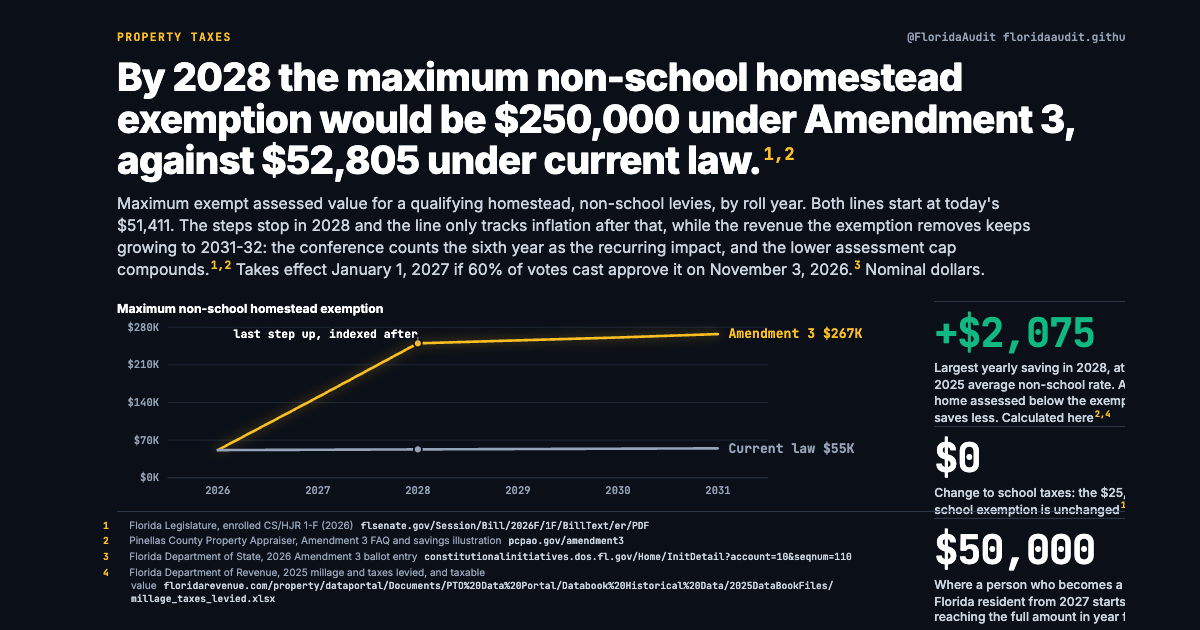
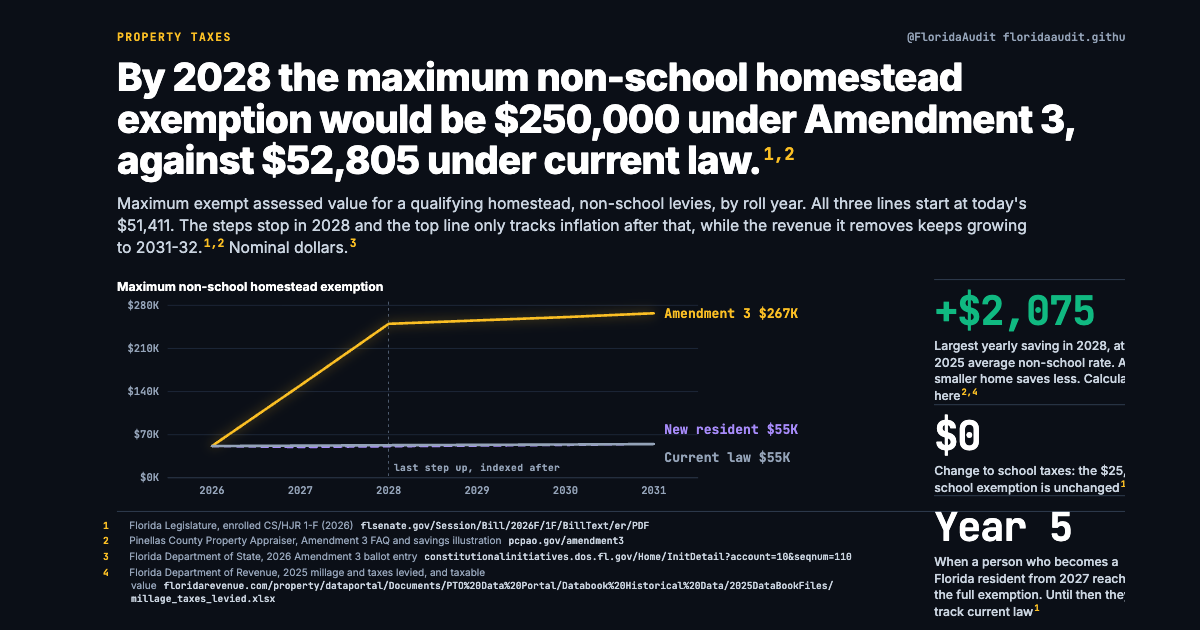
Property Taxes charts rebuilt

diff --git a/c/property-taxes/index.html b/c/property-taxes/index.html
@@ -28,15 +28,15 @@
       <dt>What these charts establish</dt><dd>What the amendment's text does and who it reaches: homesteads, non-homestead property through a lower assessment cap, and renters not at all. It also carries the state Revenue Estimating Conference's estimate of lost local revenue, statewide and county by county. It does not show how counties and cities would respond.</dd>
     </dl>
     <ul class="topic-charts">
-      <li><a href="/c/property-taxes/homestead-exemption-amounts.html"><img src="/charts/property-taxes/homestead-exemption-amounts.webp" width="1280" height="720" alt="By 2028 the maximum non-school homestead exemption would be $250,000 under Amendment 3, against $52,805 under current law. Maximum exempt assessed value for a qualifying homestead, non-school levies, by roll year. Both lines start at today's $51,411. The steps stop in 2028 and the line only tracks inflation after that, while the revenue the exemption removes keeps growing to 2031-32: the conference counts the sixth year as the recurring impact, and the lower assessment cap compounds. Takes effect January 1, 2027 if 60% of votes cast approve it on November 3, 2026. Nominal dollars." loading="lazy"><span>By 2028 the maximum non-school homestead exemption would be $250,000 under Amendment 3, against $52,805 under current law.</span></a></li>
-      <li><a href="/c/property-taxes/homeowner-savings.html"><img src="/charts/property-taxes/homeowner-savings.webp" width="1280" height="720" alt="From 2028, the exemption would cut a homestead's non-school property tax by at most $2,075 a year. Yearly saving for one qualifying homestead, not for a household: the exempt value added over the 2026 maximum ($98,589 in 2027, $198,589 in 2028), taxed at an average non-school rate, with no rate or inflation changes. $2,075 is the ceiling, reached only by a home with enough assessed value to use the whole exemption; below that a home saves in proportion to its assessed value, and a renter saves nothing. The statewide figure is calculated here from Department of Revenue millage. Pinellas County publishes its own illustration, at 12.2011 mills against the state's 10.449." loading="lazy"><span>From 2028, the exemption would cut a homestead's non-school property tax by at most $2,075 a year.</span></a></li>
+      <li><a href="/c/property-taxes/homestead-exemption-amounts.html"><img src="/charts/property-taxes/homestead-exemption-amounts.webp" width="1280" height="720" alt="By 2028 the maximum non-school homestead exemption would be $250,000 under Amendment 3, against $52,805 under current law. Maximum exempt assessed value for a qualifying homestead, non-school levies, by roll year. All three lines start at today's $51,411. The steps stop in 2028 and the top line only tracks inflation after that, while the revenue it removes keeps growing to 2031-32. Nominal dollars." loading="lazy"><span>By 2028 the maximum non-school homestead exemption would be $250,000 under Amendment 3, against $52,805 under current law.</span></a></li>
+      <li><a href="/c/property-taxes/homeowner-savings.html"><img src="/charts/property-taxes/homeowner-savings.webp" width="1280" height="720" alt="From 2028, the exemption would cut a homestead's non-school property tax by at most $2,075 a year. Yearly saving for one qualifying homestead, not for a household: the exempt value added over the 2026 maximum ($98,589 in 2027, $198,589 in 2028), taxed at an average non-school rate, with no rate or inflation changes. $2,075 is the ceiling, reached only by a home with enough assessed value to use the whole exemption; below that a home saves in proportion to its assessed value, and a renter saves nothing. The statewide figure is calculated here from Department of Revenue millage. Pinellas County is the sole county who published its own illustration, at 12.2011 mills against the state's 10.449." loading="lazy"><span>From 2028, the exemption would cut a homestead's non-school property tax by at most $2,075 a year.</span></a></li>
       <li><a href="/c/property-taxes/renters-and-new-residents.html"><img src="/charts/property-taxes/renters-and-new-residents.webp" width="1280" height="720" alt="Florida's 2.92 million renter households would get no homestead exemption. Occupied housing units by tenure, Florida, 2024. The exemption attaches to an owner's permanent residence, so the owner-occupied share is the pool that can claim one and no part of Amendment 3 reaches a renter directly. The census counts occupancy, not exemptions." loading="lazy"><span>Florida's 2.92 million renter households would get no homestead exemption.</span></a></li>
-      <li><a href="/c/property-taxes/local-revenue-impact.html"><img src="/charts/property-taxes/local-revenue-impact.webp" width="1280" height="720" alt="Amendment 3 would reduce local non-school property tax revenue by an estimated $11.83 billion a year by 2031. Estimated reduction in local non-school property tax revenue by the government that levies it. On the November 3, 2026 ballot; needs 60% to pass. Ten counties carry $7.54B of it, led by Miami-Dade $1.39B and Broward $1.19B, with all 67 in the CSV. It keeps growing after the exemption stops stepping up in 2028, for the reasons on the first chart. Holds 2025 tax rates constant. Nominal dollars." loading="lazy"><span>Amendment 3 would reduce local non-school property tax revenue by an estimated $11.83 billion a year by 2031.</span></a></li>
+      <li><a href="/c/property-taxes/local-revenue-impact.html"><img src="/charts/property-taxes/local-revenue-impact.webp" width="1280" height="720" alt="Amendment 3 would reduce local non-school property tax revenue by an estimated $11.83 billion a year by 2031. Estimated reduction in local non-school property tax revenue by the government that levies it. On the November 3, 2026 ballot; needs 60% to pass. Ten counties carry $7.54B of it, led by Miami-Dade $1.39B and Broward $1.19B, with all 67 in the CSV. It keeps growing after the exemption stops stepping up in 2028, because the conference counts the sixth year as the recurring impact and the lower assessment cap compounds. Holds 2025 tax rates constant. Nominal dollars." loading="lazy"><span>Amendment 3 would reduce local non-school property tax revenue by an estimated $11.83 billion a year by 2031.</span></a></li>
       <li><a href="/c/property-taxes/permitted-uses.html"><img src="/charts/property-taxes/permitted-uses.webp" width="1280" height="720" alt="Amendment 3 lists seven permitted uses for county and city property taxes. Text of the proposed Article VII, Section 9(a)(2). School district and special district levies are not covered by this list." loading="lazy"><span>Amendment 3 lists seven permitted uses for county and city property taxes.</span></a></li>
       <li><a href="/c/property-taxes/the-legislative-vote.html"><img src="/charts/property-taxes/the-legislative-vote.webp" width="1280" height="720" alt="Amendment 3 is on the ballot because the Legislature put it there: 75-26 in the House, 30-9 in the Senate. Votes on June 2, 2026 on CS/HJR 1-F. A joint resolution does not go to the governor." loading="lazy"><span>Amendment 3 is on the ballot because the Legislature put it there: 75-26 in the House, 30-9 in the Senate.</span></a></li>
       <li><a href="/c/property-taxes/impact-by-county.html"><img src="/charts/property-taxes/impact-by-county.webp" width="1280" height="720" alt="As a share of what they levy today, eight counties lose more than half of their non-school property tax. The same reduction as the dollar chart, measured as a share instead, with the dollars after each name so the scale stays visible: recurring annual reduction estimated for FY2031-32, against each county's 2025 non-school levies, calculated here. The two figures are years apart on purpose: the reduction is measured against what a county raises today, and the levy base will itself grow by 2031, so the share of that later base is smaller than the share shown here. Holds 2025 tax rates constant." loading="lazy"><span>As a share of what they levy today, eight counties lose more than half of their non-school property tax.</span></a></li>
       <li><a href="/c/property-taxes/impact-by-county-dollars.html"><img src="/charts/property-taxes/impact-by-county-dollars.webp" width="1280" height="720" alt="Ten counties carry $7.54 billion of the $11.83 billion, and two thirds of it comes off county government. Recurring annual reduction in local non-school property tax revenue once the exemption is fully phased in, for the ten largest of Florida's 67 counties, split between the county government and the cities and special districts inside it. Duval has no county-government bar: Jacksonville and Duval County are one consolidated government, which the table files as a municipality, so its whole reduction sits in the purple bar. All 67 counties are in the CSV behind this chart. Holds 2025 tax rates constant. Nominal dollars." loading="lazy"><span>Ten counties carry $7.54 billion of the $11.83 billion, and two thirds of it comes off county government.</span></a></li>
-      <li><a href="/c/property-taxes/non-homestead-assessment-cap.html"><img src="/charts/property-taxes/non-homestead-assessment-cap.webp" width="1280" height="720" alt="The yearly assessment cap on rental and commercial property would fall from 10% to 5%. Maximum annual growth in taxable assessed value for non-homestead, non-agricultural parcels, non-school levies. The current 10% cap has been in place since 2008. The chart is an illustration calculated here, not a forecast: one parcel assessed at $1,000,000 in 2026 whose market value rises 12% a year, the condition under which a cap binds." loading="lazy"><span>The yearly assessment cap on rental and commercial property would fall from 10% to 5%.</span></a></li>
+      <li><a href="/c/property-taxes/non-homestead-assessment-cap.html"><img src="/charts/property-taxes/non-homestead-assessment-cap.webp" width="1280" height="720" alt="The yearly assessment cap on rental and commercial property would fall from 10% to 5%. Maximum annual growth in taxable assessed value for non-homestead, non-agricultural parcels, non-school levies; the current 10% cap has been in place since 2008. The cap limits the value the tax is computed on, not the market price, not the rent, and not the millage rate. The lines are an illustration calculated here, not a forecast: one parcel assessed at $1,000,000 in 2026 whose market value then rises 12% a year, the condition under which a cap binds at all." loading="lazy"><span>The yearly assessment cap on rental and commercial property would fall from 10% to 5%.</span></a></li>
     </ul>
   </article></main>
 <footer><a href="/">All charts</a> · <a href="/methods.html">Methods</a> · <a href="/corrections.html">Corrections</a></footer>

diff --git a/c/property-taxes/non-homestead-assessment-cap.html b/c/property-taxes/non-homestead-assessment-cap.html
@@ -4,24 +4,24 @@
   <meta charset="utf-8">
   <meta name="viewport" content="width=device-width, initial-scale=1">
   <title>The yearly assessment cap on rental and commercial property would fall from 10% to 5%. · Florida Audit Project</title>
-  <meta name="description" content="Property Taxes: Maximum annual growth in taxable assessed value for non-homestead, non-agricultural parcels, non-school levies.">
+  <meta name="description" content="Property Taxes: Maximum annual growth in taxable assessed value for non-homestead, non-agricultural parcels, non-school levies; the current 10% cap has been...">
   <link rel="canonical" href="https://floridaaudit.github.io/c/property-taxes/non-homestead-assessment-cap.html">
   <meta name="robots" content="index, follow, max-image-preview:large">
   <meta property="og:type" content="article">
   <meta property="og:site_name" content="Florida Audit Project">
   <meta property="og:title" content="The yearly assessment cap on rental and commercial property would fall from 10% to 5%.">
-  <meta property="og:description" content="Property Taxes: Maximum annual growth in taxable assessed value for non-homestead, non-agricultural parcels, non-school levies.">
+  <meta property="og:description" content="Property Taxes: Maximum annual growth in taxable assessed value for non-homestead, non-agricultural parcels, non-school levies; the current 10% cap has been...">
   <meta property="og:url" content="https://floridaaudit.github.io/c/property-taxes/non-homestead-assessment-cap.html">
   <meta property="og:image" content="https://floridaaudit.github.io/charts/property-taxes/non-homestead-assessment-cap-card.png">
   <meta property="og:image:width" content="1200">
   <meta property="og:image:height" content="630">
-  <meta property="og:image:alt" content="The yearly assessment cap on rental and commercial property would fall from 10% to 5%. Maximum annual growth in taxable assessed value for non-homestead, non-agricultural parcels, non-school levies. The current 10% cap has been in place since 2008. The chart is an illustration calculated here, not a forecast: one parcel assessed at $1,000,000 in 2026 whose market value rises 12% a year, the condition under which a cap binds.">
+  <meta property="og:image:alt" content="The yearly assessment cap on rental and commercial property would fall from 10% to 5%. Maximum annual growth in taxable assessed value for non-homestead, non-agricultural parcels, non-school levies; the current 10% cap has been in place since 2008. The cap limits the value the tax is computed on, not the market price, not the rent, and not the millage rate. The lines are an illustration calculated here, not a forecast: one parcel assessed at $1,000,000 in 2026 whose market value then rises 12% a year, the condition under which a cap binds at all.">
   <meta name="twitter:card" content="summary_large_image">
   <meta name="twitter:site" content="@FloridaAudit">
   <meta name="twitter:title" content="The yearly assessment cap on rental and commercial property would fall from 10% to 5%.">
-  <meta name="twitter:description" content="Property Taxes: Maximum annual growth in taxable assessed value for non-homestead, non-agricultural parcels, non-school levies.">
+  <meta name="twitter:description" content="Property Taxes: Maximum annual growth in taxable assessed value for non-homestead, non-agricultural parcels, non-school levies; the current 10% cap has been...">
   <meta name="twitter:image" content="https://floridaaudit.github.io/charts/property-taxes/non-homestead-assessment-cap-card.png">
-  <meta name="twitter:image:alt" content="The yearly assessment cap on rental and commercial property would fall from 10% to 5%. Maximum annual growth in taxable assessed value for non-homestead, non-agricultural parcels, non-school levies. The current 10% cap has been in place since 2008. The chart is an illustration calculated here, not a forecast: one parcel assessed at $1,000,000 in 2026 whose market value rises 12% a year, the condition under which a cap binds.">
+  <meta name="twitter:image:alt" content="The yearly assessment cap on rental and commercial property would fall from 10% to 5%. Maximum annual growth in taxable assessed value for non-homestead, non-agricultural parcels, non-school levies; the current 10% cap has been in place since 2008. The cap limits the value the tax is computed on, not the market price, not the rent, and not the millage rate. The lines are an illustration calculated here, not a forecast: one parcel assessed at $1,000,000 in 2026 whose market value then rises 12% a year, the condition under which a cap binds at all.">
   <link rel="icon" href="/assets/favicon.png" type="image/png">
   <link rel="stylesheet" href="/assets/site.css">
   <script type="application/ld+json">
@@ -29,7 +29,7 @@
   "@context": "https://schema.org",
   "@type": "Dataset",
   "name": "The yearly assessment cap on rental and commercial property would fall from 10% to 5%.",
-  "description": "Property Taxes: Maximum annual growth in taxable assessed value for non-homestead, non-agricultural parcels, non-school levies.",
+  "description": "Property Taxes: Maximum annual growth in taxable assessed value for non-homestead, non-agricultural parcels, non-school levies; the current 10% cap has been...",
   "url": "https://floridaaudit.github.io/c/property-taxes/non-homestead-assessment-cap.html",
   "license": "https://creativecommons.org/publicdomain/zero/1.0/",
   "isAccessibleForFree": true,
@@ -70,9 +70,9 @@
   <article>
     <p class="kicker">Property Taxes</p>
     <h1>The yearly assessment cap on rental and commercial property would fall from 10% to 5%.</h1>
-    <p class="sub">Maximum annual growth in taxable assessed value for non-homestead, non-agricultural parcels, non-school levies. The current 10% cap has been in place since 2008. The chart is an illustration calculated here, not a forecast: one parcel assessed at $1,000,000 in 2026 whose market value rises 12% a year, the condition under which a cap binds.</p>
+    <p class="sub">Maximum annual growth in taxable assessed value for non-homestead, non-agricultural parcels, non-school levies; the current 10% cap has been in place since 2008. The cap limits the value the tax is computed on, not the market price, not the rent, and not the millage rate. The lines are an illustration calculated here, not a forecast: one parcel assessed at $1,000,000 in 2026 whose market value then rises 12% a year, the condition under which a cap binds at all.</p>
     <figure>
-      <img src="/charts/property-taxes/non-homestead-assessment-cap.webp" width="1280" height="720" alt="The yearly assessment cap on rental and commercial property would fall from 10% to 5%. Maximum annual growth in taxable assessed value for non-homestead, non-agricultural parcels, non-school levies. The current 10% cap has been in place since 2008. The chart is an illustration calculated here, not a forecast: one parcel assessed at $1,000,000 in 2026 whose market value rises 12% a year, the condition under which a cap binds.">
+      <img src="/charts/property-taxes/non-homestead-assessment-cap.webp" width="1280" height="720" alt="The yearly assessment cap on rental and commercial property would fall from 10% to 5%. Maximum annual growth in taxable assessed value for non-homestead, non-agricultural parcels, non-school levies; the current 10% cap has been in place since 2008. The cap limits the value the tax is computed on, not the market price, not the rent, and not the millage rate. The lines are an illustration calculated here, not a forecast: one parcel assessed at $1,000,000 in 2026 whose market value then rises 12% a year, the condition under which a cap binds at all.">
       <figcaption>Full size: <a href="/charts/property-taxes/non-homestead-assessment-cap.png">PNG, 2560 by 1440</a></figcaption>
     </figure>
     <p class="download"><a href="/data/property-taxes/assessment-cap-illustration.csv">Download the data behind this chart (assessment-cap-illustration.csv)</a></p>

diff --git a/c/property-taxes/homeowner-savings.html b/c/property-taxes/homeowner-savings.html
@@ -15,13 +15,13 @@
   <meta property="og:image" content="https://floridaaudit.github.io/charts/property-taxes/homeowner-savings-card.png">
   <meta property="og:image:width" content="1200">
   <meta property="og:image:height" content="630">
-  <meta property="og:image:alt" content="From 2028, the exemption would cut a homestead's non-school property tax by at most $2,075 a year. Yearly saving for one qualifying homestead, not for a household: the exempt value added over the 2026 maximum ($98,589 in 2027, $198,589 in 2028), taxed at an average non-school rate, with no rate or inflation changes. $2,075 is the ceiling, reached only by a home with enough assessed value to use the whole exemption; below that a home saves in proportion to its assessed value, and a renter saves nothing. The statewide figure is calculated here from Department of Revenue millage. Pinellas County publishes its own illustration, at 12.2011 mills against the state's 10.449.">
+  <meta property="og:image:alt" content="From 2028, the exemption would cut a homestead's non-school property tax by at most $2,075 a year. Yearly saving for one qualifying homestead, not for a household: the exempt value added over the 2026 maximum ($98,589 in 2027, $198,589 in 2028), taxed at an average non-school rate, with no rate or inflation changes. $2,075 is the ceiling, reached only by a home with enough assessed value to use the whole exemption; below that a home saves in proportion to its assessed value, and a renter saves nothing. The statewide figure is calculated here from Department of Revenue millage. Pinellas County is the sole county who published its own illustration, at 12.2011 mills against the state's 10.449.">
   <meta name="twitter:card" content="summary_large_image">
   <meta name="twitter:site" content="@FloridaAudit">
   <meta name="twitter:title" content="From 2028, the exemption would cut a homestead's non-school property tax by at most $2,075 a year.">
   <meta name="twitter:description" content="Property Taxes: Yearly saving for one qualifying homestead, not for a household: the exempt value added over the 2026 maximum ($98,589 in 2027, $198,589 in...">
   <meta name="twitter:image" content="https://floridaaudit.github.io/charts/property-taxes/homeowner-savings-card.png">
-  <meta name="twitter:image:alt" content="From 2028, the exemption would cut a homestead's non-school property tax by at most $2,075 a year. Yearly saving for one qualifying homestead, not for a household: the exempt value added over the 2026 maximum ($98,589 in 2027, $198,589 in 2028), taxed at an average non-school rate, with no rate or inflation changes. $2,075 is the ceiling, reached only by a home with enough assessed value to use the whole exemption; below that a home saves in proportion to its assessed value, and a renter saves nothing. The statewide figure is calculated here from Department of Revenue millage. Pinellas County publishes its own illustration, at 12.2011 mills against the state's 10.449.">
+  <meta name="twitter:image:alt" content="From 2028, the exemption would cut a homestead's non-school property tax by at most $2,075 a year. Yearly saving for one qualifying homestead, not for a household: the exempt value added over the 2026 maximum ($98,589 in 2027, $198,589 in 2028), taxed at an average non-school rate, with no rate or inflation changes. $2,075 is the ceiling, reached only by a home with enough assessed value to use the whole exemption; below that a home saves in proportion to its assessed value, and a renter saves nothing. The statewide figure is calculated here from Department of Revenue millage. Pinellas County is the sole county who published its own illustration, at 12.2011 mills against the state's 10.449.">
   <link rel="icon" href="/assets/favicon.png" type="image/png">
   <link rel="stylesheet" href="/assets/site.css">
   <script type="application/ld+json">
@@ -70,9 +70,9 @@
   <article>
     <p class="kicker">Property Taxes</p>
     <h1>From 2028, the exemption would cut a homestead's non-school property tax by at most $2,075 a year.</h1>
-    <p class="sub">Yearly saving for one qualifying homestead, not for a household: the exempt value added over the 2026 maximum ($98,589 in 2027, $198,589 in 2028), taxed at an average non-school rate, with no rate or inflation changes. $2,075 is the ceiling, reached only by a home with enough assessed value to use the whole exemption; below that a home saves in proportion to its assessed value, and a renter saves nothing. The statewide figure is calculated here from Department of Revenue millage. Pinellas County publishes its own illustration, at 12.2011 mills against the state's 10.449.</p>
+    <p class="sub">Yearly saving for one qualifying homestead, not for a household: the exempt value added over the 2026 maximum ($98,589 in 2027, $198,589 in 2028), taxed at an average non-school rate, with no rate or inflation changes. $2,075 is the ceiling, reached only by a home with enough assessed value to use the whole exemption; below that a home saves in proportion to its assessed value, and a renter saves nothing. The statewide figure is calculated here from Department of Revenue millage. Pinellas County is the sole county who published its own illustration, at 12.2011 mills against the state's 10.449.</p>
     <figure>
-      <img src="/charts/property-taxes/homeowner-savings.webp" width="1280" height="720" alt="From 2028, the exemption would cut a homestead's non-school property tax by at most $2,075 a year. Yearly saving for one qualifying homestead, not for a household: the exempt value added over the 2026 maximum ($98,589 in 2027, $198,589 in 2028), taxed at an average non-school rate, with no rate or inflation changes. $2,075 is the ceiling, reached only by a home with enough assessed value to use the whole exemption; below that a home saves in proportion to its assessed value, and a renter saves nothing. The statewide figure is calculated here from Department of Revenue millage. Pinellas County publishes its own illustration, at 12.2011 mills against the state's 10.449.">
+      <img src="/charts/property-taxes/homeowner-savings.webp" width="1280" height="720" alt="From 2028, the exemption would cut a homestead's non-school property tax by at most $2,075 a year. Yearly saving for one qualifying homestead, not for a household: the exempt value added over the 2026 maximum ($98,589 in 2027, $198,589 in 2028), taxed at an average non-school rate, with no rate or inflation changes. $2,075 is the ceiling, reached only by a home with enough assessed value to use the whole exemption; below that a home saves in proportion to its assessed value, and a renter saves nothing. The statewide figure is calculated here from Department of Revenue millage. Pinellas County is the sole county who published its own illustration, at 12.2011 mills against the state's 10.449.">
       <figcaption>Full size: <a href="/charts/property-taxes/homeowner-savings.png">PNG, 2560 by 1440</a></figcaption>
     </figure>
     <p class="download"><a href="/data/property-taxes/savings-illustration.csv">Download the data behind this chart (savings-illustration.csv)</a></p>

diff --git a/c/property-taxes/local-revenue-impact.html b/c/property-taxes/local-revenue-impact.html
@@ -15,13 +15,13 @@
   <meta property="og:image" content="https://floridaaudit.github.io/charts/property-taxes/local-revenue-impact-card.png">
   <meta property="og:image:width" content="1200">
   <meta property="og:image:height" content="630">
-  <meta property="og:image:alt" content="Amendment 3 would reduce local non-school property tax revenue by an estimated $11.83 billion a year by 2031. Estimated reduction in local non-school property tax revenue by the government that levies it. On the November 3, 2026 ballot; needs 60% to pass. Ten counties carry $7.54B of it, led by Miami-Dade $1.39B and Broward $1.19B, with all 67 in the CSV. It keeps growing after the exemption stops stepping up in 2028, for the reasons on the first chart. Holds 2025 tax rates constant. Nominal dollars.">
+  <meta property="og:image:alt" content="Amendment 3 would reduce local non-school property tax revenue by an estimated $11.83 billion a year by 2031. Estimated reduction in local non-school property tax revenue by the government that levies it. On the November 3, 2026 ballot; needs 60% to pass. Ten counties carry $7.54B of it, led by Miami-Dade $1.39B and Broward $1.19B, with all 67 in the CSV. It keeps growing after the exemption stops stepping up in 2028, because the conference counts the sixth year as the recurring impact and the lower assessment cap compounds. Holds 2025 tax rates constant. Nominal dollars.">
   <meta name="twitter:card" content="summary_large_image">
   <meta name="twitter:site" content="@FloridaAudit">
   <meta name="twitter:title" content="Amendment 3 would reduce local non-school property tax revenue by an estimated $11.83 billion a year by 2031.">
   <meta name="twitter:description" content="Property Taxes: Estimated reduction in local non-school property tax revenue by the government that levies it.">
   <meta name="twitter:image" content="https://floridaaudit.github.io/charts/property-taxes/local-revenue-impact-card.png">
-  <meta name="twitter:image:alt" content="Amendment 3 would reduce local non-school property tax revenue by an estimated $11.83 billion a year by 2031. Estimated reduction in local non-school property tax revenue by the government that levies it. On the November 3, 2026 ballot; needs 60% to pass. Ten counties carry $7.54B of it, led by Miami-Dade $1.39B and Broward $1.19B, with all 67 in the CSV. It keeps growing after the exemption stops stepping up in 2028, for the reasons on the first chart. Holds 2025 tax rates constant. Nominal dollars.">
+  <meta name="twitter:image:alt" content="Amendment 3 would reduce local non-school property tax revenue by an estimated $11.83 billion a year by 2031. Estimated reduction in local non-school property tax revenue by the government that levies it. On the November 3, 2026 ballot; needs 60% to pass. Ten counties carry $7.54B of it, led by Miami-Dade $1.39B and Broward $1.19B, with all 67 in the CSV. It keeps growing after the exemption stops stepping up in 2028, because the conference counts the sixth year as the recurring impact and the lower assessment cap compounds. Holds 2025 tax rates constant. Nominal dollars.">
   <link rel="icon" href="/assets/favicon.png" type="image/png">
   <link rel="stylesheet" href="/assets/site.css">
   <script type="application/ld+json">
@@ -68,9 +68,9 @@
   <article>
     <p class="kicker">Property Taxes</p>
     <h1>Amendment 3 would reduce local non-school property tax revenue by an estimated $11.83 billion a year by 2031.</h1>
-    <p class="sub">Estimated reduction in local non-school property tax revenue by the government that levies it. On the November 3, 2026 ballot; needs 60% to pass. Ten counties carry $7.54B of it, led by Miami-Dade $1.39B and Broward $1.19B, with all 67 in the CSV. It keeps growing after the exemption stops stepping up in 2028, for the reasons on the first chart. Holds 2025 tax rates constant. Nominal dollars.</p>
+    <p class="sub">Estimated reduction in local non-school property tax revenue by the government that levies it. On the November 3, 2026 ballot; needs 60% to pass. Ten counties carry $7.54B of it, led by Miami-Dade $1.39B and Broward $1.19B, with all 67 in the CSV. It keeps growing after the exemption stops stepping up in 2028, because the conference counts the sixth year as the recurring impact and the lower assessment cap compounds. Holds 2025 tax rates constant. Nominal dollars.</p>
     <figure>
-      <img src="/charts/property-taxes/local-revenue-impact.webp" width="1280" height="720" alt="Amendment 3 would reduce local non-school property tax revenue by an estimated $11.83 billion a year by 2031. Estimated reduction in local non-school property tax revenue by the government that levies it. On the November 3, 2026 ballot; needs 60% to pass. Ten counties carry $7.54B of it, led by Miami-Dade $1.39B and Broward $1.19B, with all 67 in the CSV. It keeps growing after the exemption stops stepping up in 2028, for the reasons on the first chart. Holds 2025 tax rates constant. Nominal dollars.">
+      <img src="/charts/property-taxes/local-revenue-impact.webp" width="1280" height="720" alt="Amendment 3 would reduce local non-school property tax revenue by an estimated $11.83 billion a year by 2031. Estimated reduction in local non-school property tax revenue by the government that levies it. On the November 3, 2026 ballot; needs 60% to pass. Ten counties carry $7.54B of it, led by Miami-Dade $1.39B and Broward $1.19B, with all 67 in the CSV. It keeps growing after the exemption stops stepping up in 2028, because the conference counts the sixth year as the recurring impact and the lower assessment cap compounds. Holds 2025 tax rates constant. Nominal dollars.">
       <figcaption>Full size: <a href="/charts/property-taxes/local-revenue-impact.png">PNG, 2560 by 1440</a></figcaption>
     </figure>
     <p class="download"><a href="/data/property-taxes/amendment-3-revenue-estimate.csv">Download the data behind this chart (amendment-3-revenue-estimate.csv)</a></p>

diff --git a/c/property-taxes/homestead-exemption-amounts.html b/c/property-taxes/homestead-exemption-amounts.html
@@ -15,13 +15,13 @@
   <meta property="og:image" content="https://floridaaudit.github.io/charts/property-taxes/homestead-exemption-amounts-card.png">
   <meta property="og:image:width" content="1200">
   <meta property="og:image:height" content="630">
-  <meta property="og:image:alt" content="By 2028 the maximum non-school homestead exemption would be $250,000 under Amendment 3, against $52,805 under current law. Maximum exempt assessed value for a qualifying homestead, non-school levies, by roll year. Both lines start at today's $51,411. The steps stop in 2028 and the line only tracks inflation after that, while the revenue the exemption removes keeps growing to 2031-32: the conference counts the sixth year as the recurring impact, and the lower assessment cap compounds. Takes effect January 1, 2027 if 60% of votes cast approve it on November 3, 2026. Nominal dollars.">
+  <meta property="og:image:alt" content="By 2028 the maximum non-school homestead exemption would be $250,000 under Amendment 3, against $52,805 under current law. Maximum exempt assessed value for a qualifying homestead, non-school levies, by roll year. All three lines start at today's $51,411. The steps stop in 2028 and the top line only tracks inflation after that, while the revenue it removes keeps growing to 2031-32. Nominal dollars.">
   <meta name="twitter:card" content="summary_large_image">
   <meta name="twitter:site" content="@FloridaAudit">
   <meta name="twitter:title" content="By 2028 the maximum non-school homestead exemption would be $250,000 under Amendment 3, against $52,805 under current law.">
   <meta name="twitter:description" content="Property Taxes: Maximum exempt assessed value for a qualifying homestead, non-school levies, by roll year.">
   <meta name="twitter:image" content="https://floridaaudit.github.io/charts/property-taxes/homestead-exemption-amounts-card.png">
-  <meta name="twitter:image:alt" content="By 2028 the maximum non-school homestead exemption would be $250,000 under Amendment 3, against $52,805 under current law. Maximum exempt assessed value for a qualifying homestead, non-school levies, by roll year. Both lines start at today's $51,411. The steps stop in 2028 and the line only tracks inflation after that, while the revenue the exemption removes keeps growing to 2031-32: the conference counts the sixth year as the recurring impact, and the lower assessment cap compounds. Takes effect January 1, 2027 if 60% of votes cast approve it on November 3, 2026. Nominal dollars.">
+  <meta name="twitter:image:alt" content="By 2028 the maximum non-school homestead exemption would be $250,000 under Amendment 3, against $52,805 under current law. Maximum exempt assessed value for a qualifying homestead, non-school levies, by roll year. All three lines start at today's $51,411. The steps stop in 2028 and the top line only tracks inflation after that, while the revenue it removes keeps growing to 2031-32. Nominal dollars.">
   <link rel="icon" href="/assets/favicon.png" type="image/png">
   <link rel="stylesheet" href="/assets/site.css">
   <script type="application/ld+json">
@@ -71,9 +71,9 @@
   <article>
     <p class="kicker">Property Taxes</p>
     <h1>By 2028 the maximum non-school homestead exemption would be $250,000 under Amendment 3, against $52,805 under current law.</h1>
-    <p class="sub">Maximum exempt assessed value for a qualifying homestead, non-school levies, by roll year. Both lines start at today's $51,411. The steps stop in 2028 and the line only tracks inflation after that, while the revenue the exemption removes keeps growing to 2031-32: the conference counts the sixth year as the recurring impact, and the lower assessment cap compounds. Takes effect January 1, 2027 if 60% of votes cast approve it on November 3, 2026. Nominal dollars.</p>
+    <p class="sub">Maximum exempt assessed value for a qualifying homestead, non-school levies, by roll year. All three lines start at today's $51,411. The steps stop in 2028 and the top line only tracks inflation after that, while the revenue it removes keeps growing to 2031-32. Nominal dollars.</p>
     <figure>
-      <img src="/charts/property-taxes/homestead-exemption-amounts.webp" width="1280" height="720" alt="By 2028 the maximum non-school homestead exemption would be $250,000 under Amendment 3, against $52,805 under current law. Maximum exempt assessed value for a qualifying homestead, non-school levies, by roll year. Both lines start at today's $51,411. The steps stop in 2028 and the line only tracks inflation after that, while the revenue the exemption removes keeps growing to 2031-32: the conference counts the sixth year as the recurring impact, and the lower assessment cap compounds. Takes effect January 1, 2027 if 60% of votes cast approve it on November 3, 2026. Nominal dollars.">
+      <img src="/charts/property-taxes/homestead-exemption-amounts.webp" width="1280" height="720" alt="By 2028 the maximum non-school homestead exemption would be $250,000 under Amendment 3, against $52,805 under current law. Maximum exempt assessed value for a qualifying homestead, non-school levies, by roll year. All three lines start at today's $51,411. The steps stop in 2028 and the top line only tracks inflation after that, while the revenue it removes keeps growing to 2031-32. Nominal dollars.">
       <figcaption>Full size: <a href="/charts/property-taxes/homestead-exemption-amounts.png">PNG, 2560 by 1440</a></figcaption>
     </figure>
     <p class="download"><a href="/data/property-taxes/exemption-schedule.csv">Download the data behind this chart (exemption-schedule.csv)</a></p>
